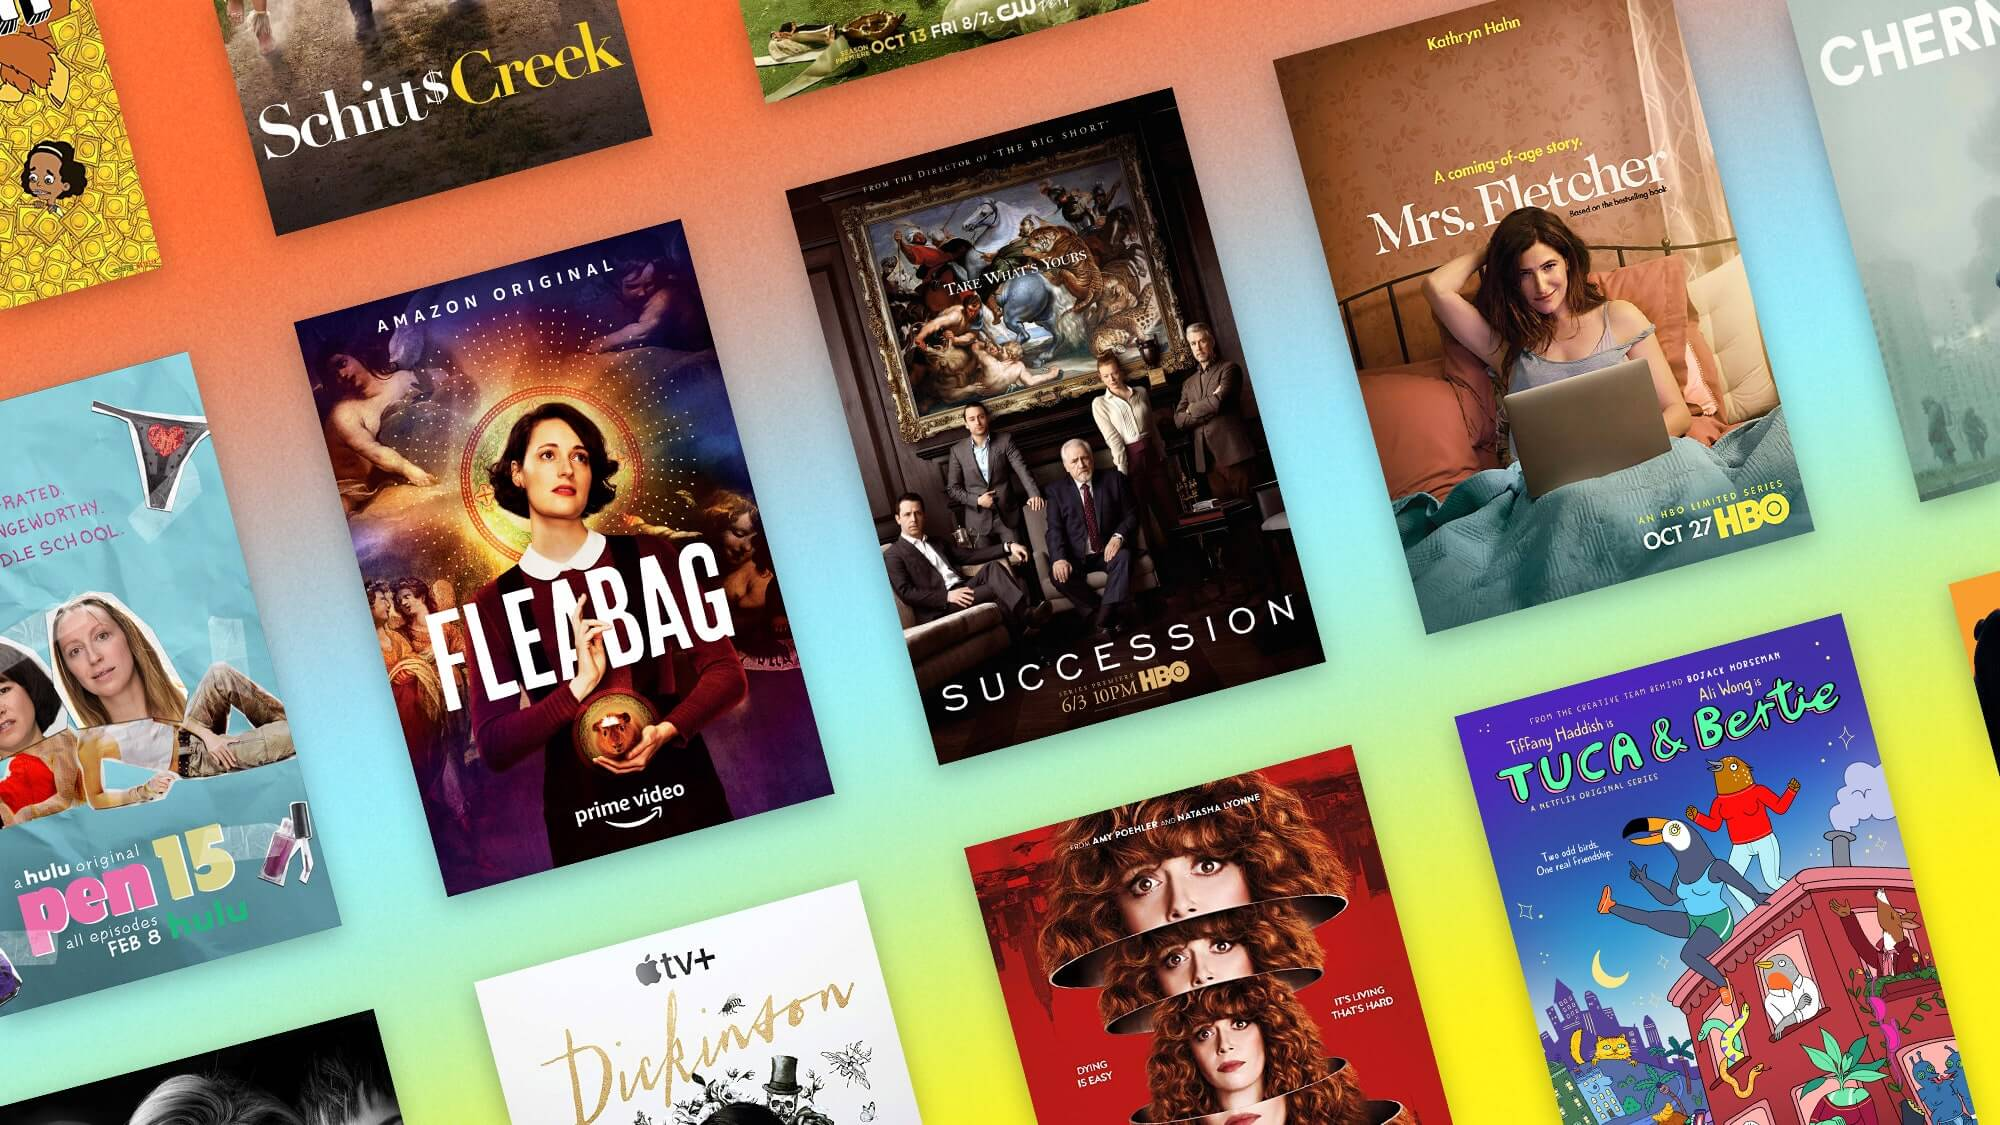
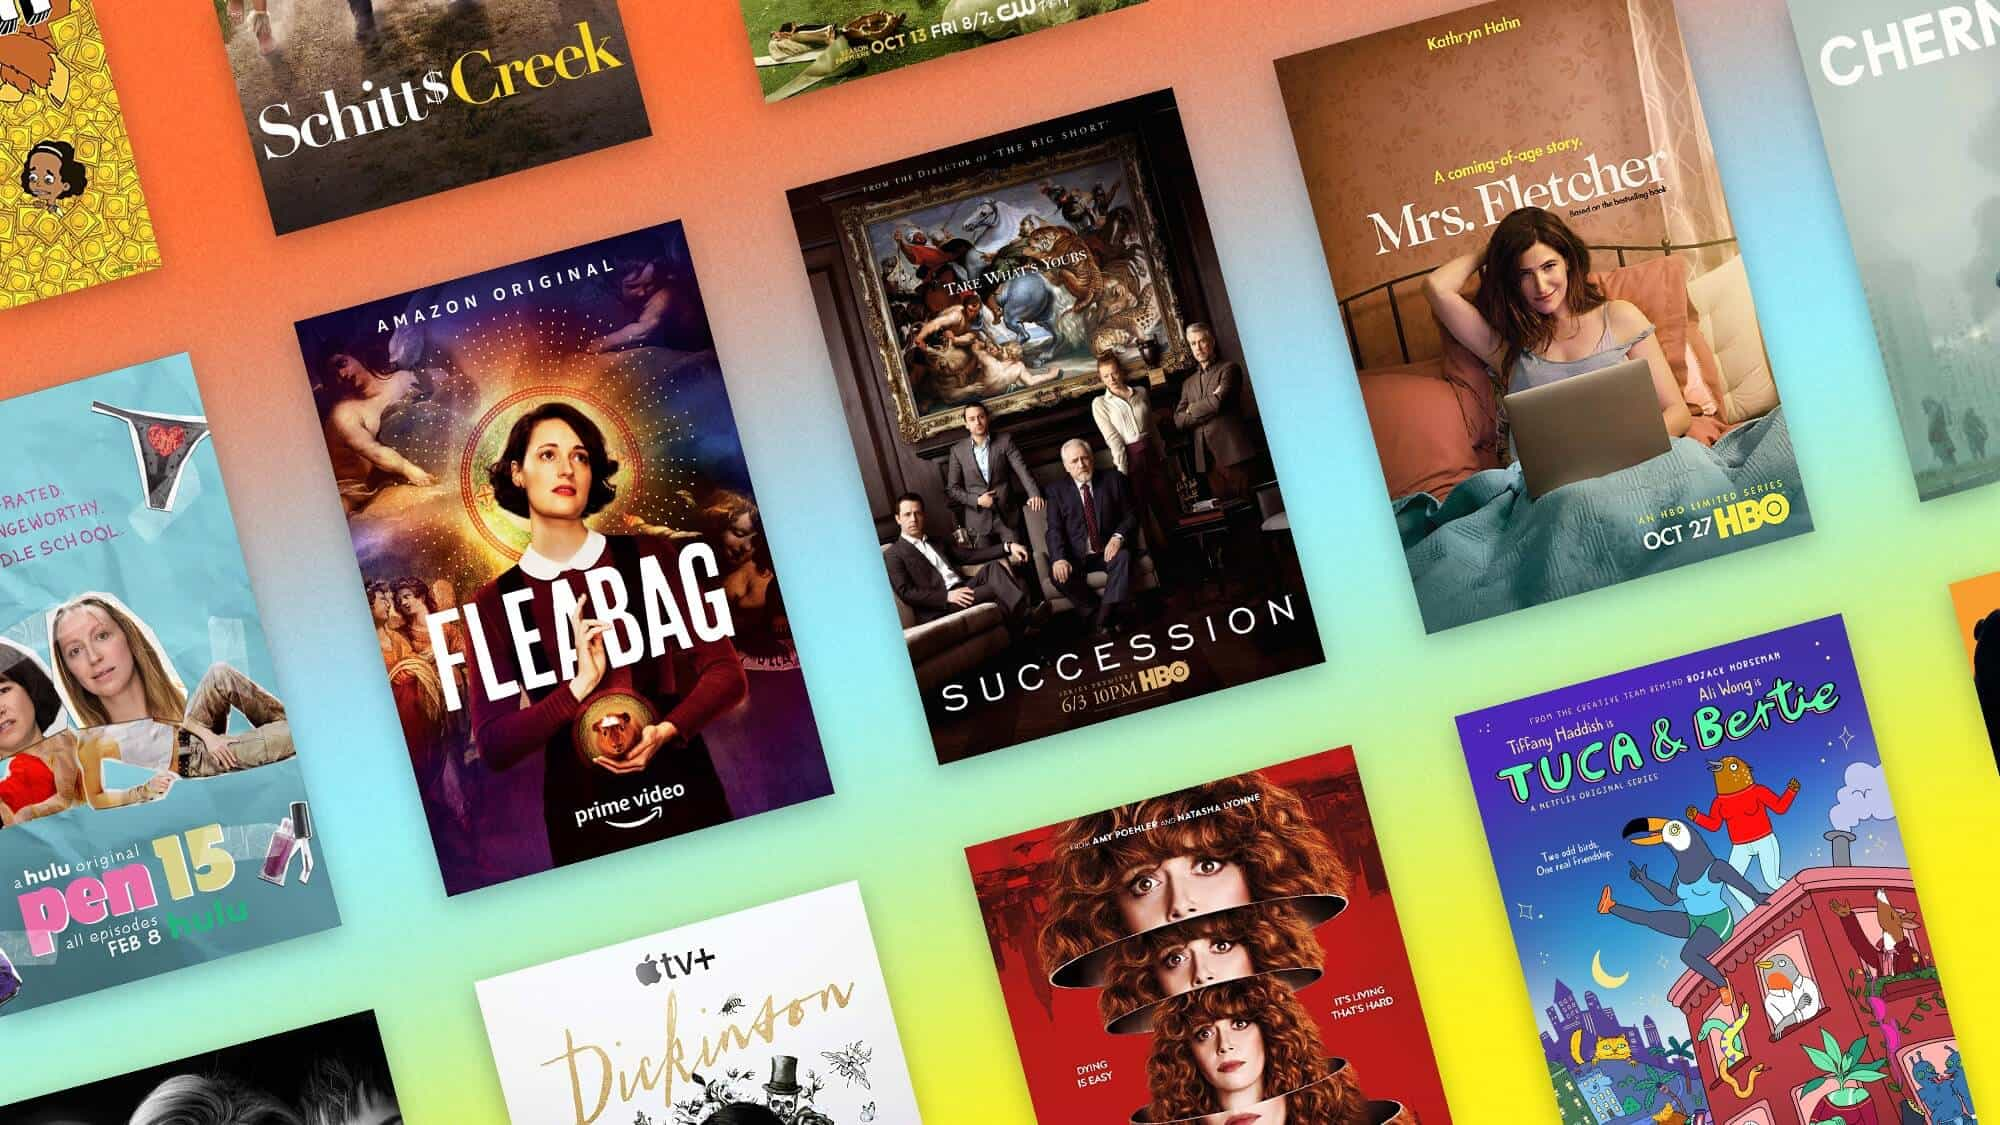
optimized img

diff --git a/index.html b/index.html
@@ -208,7 +208,7 @@
 								</article>
 								<article>
 									<span class="image">
-										<img src="images/univer_preview.png" alt="" />
+										<img src="images/univer_preview.jpg" alt="" />
 									</span>
 									<header class="major">
 										<h3><a href="university.html" class="link">UNIVERSITY PROJECTS</a></h3>
